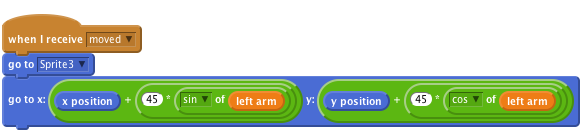
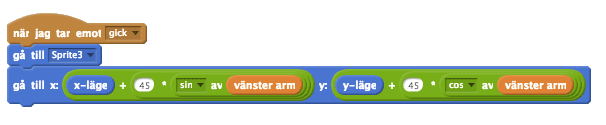
sv-SE_translations: Translated text and imagery for the scratch card 'Jointed arm'.

diff --git a/sv-SE/02_scratch/01/01-02 Make a Monster - Jointed Arm.html b/sv-SE/02_scratch/01/01-02 Make a Monster - Jointed Arm.html
@@ -1,0 +1,64 @@
+<!DOCTYPE html>
+<html class="world" lang="sv-SE">
+<head>
+    <meta charset="utf-8">
+    <meta name="viewport" content="width=device-width, initial-scale=1.0">
+
+    <meta name="google-site-verification" content="LAa8xdL-G6vOe9RSZnECSduS5m1BMiM8U2erQku5yIE" />
+
+    <title>Monsterförjdupningskort - Ledad Arm — Code Club World Projects</title>
+
+    <!--[if lt IE 9]><script src="http://html5shim.googlecode.com/svn/trunk/html5.js"></script><![endif]-->
+
+    <link rel="stylesheet" href="../../../css/master.min.css">
+  </head>
+
+  <body class="index-template world">
+    <header class="header" role="banner">
+      <a class="home-link" href="../../../index.html"><img alt="" class="logo" height="100" src="../../../img/ccw_logo.png"></a>
+      <h1 class="title">Monsterförjdupningskort - Ledad arm</h1>
+      <span class="level-indicator">Nivå 4</span>
+    </header>
+
+    <nav class="breadcrumbs"><ul class="breadcrumbs-list"><li class="breadcrumbs-item"><a class="breadcrumbs-link" href="../../../index.html">Språk</a></li><li class="breadcrumbs-item"><a class="breadcrumbs-link" href="../../index.html">Svenska</a></li><li class="breadcrumbs-item"><a class="breadcrumbs-link" href="../index.html">Advancerad Scratch</a></li><li class="breadcrumbs-item current">Ledad arm</li></ul></nav>
+
+    <main class="main lesson-steps" role="main">
+<section id="activity-checklist" class="level2 check">
+<h2>Checklista</h2>
+<p>
+  En ledad arm är gjord av <strong>två sprites</strong>, de kan vara ganska svåra att bygga eftersom de två delarna av armen måste veta var den andra delen är för att inte delas upp och se konstig ut. Detta görs genom en matematisk beräkning som kallas <strong>trigonometri</strong> detta används ofta i utveckling av tvspel, robotar och annan häftig teknik.</p>
+  <p> <strong>Vår första sprite är överarmen</strong>, detta är inte alltför svårt, eftersom den bara kommer rotera i axeln och flyttas fram och tillbaka tillsammans med kroppen och våra övriga kroppsdelar. En sak vi måste lägga till är dock att sätta vår arms <code class="blockblue">riktning</code> till en variabel (mer om detta senare).</p>
+<p><img src="5c86347fddb919db0af5f853a218178377cd05d1.png" alt="    när [mellanslag] trycks ned
+        vänd medsols (15) grader
+        sätt [vänster arm] till (riktning)
+        sänd [gick]
+        ändra x med (flytthastighet)" /></p>
+<p>Nästa uträkning används för att kontrollera <strong>underarmen</strong>. Det är här vi använder trigonometri för att räkna ut var underarmen ska placeras (du kan behöva be om hjälp när du gör detta).</p>
+<p><img src="aa78eabac8b59270c0fb415fe64754007131b8ce.png" alt="    när jag tar emot [gick]
+        gå till [Sprite3]
+        gå till: ((x-läge) + ((45) * ([sin] av (vänster arm)))) y: ((y-läge) + ((45) * ([cos] av (vänster arm))))" /></p>
+<p>Vår överarm kommer uppdateras först när eventet <code class="blockbrown">gick</code> skickas, men du kan använda vilket event som helst, så länge överarmen lyssnar på samma event som skickas när kroppen rör sig.</p>
+<p>När överarmen rört sig måste också underarmen följa med. Det gör vi genom att underarmen positionerar sig vid överarmens <strong>centrumpunkt</strong>. Detta borde vara där toppen av överarmen möter axeln i kroppen. Vi vill sedan positionera armbågen på underarmen i andra änden av överarmen. Föreställ dig att när överarmen roterar runt axeln ritar vi en cirkel. För det första, vad är radien på den cirkeln? I vårt exempel är överarmen cirka <strong>45 pixlar</strong> lång.</p>
+<p>Vi vill sen hitta på vilken punkt runt den cirkeln som den andra änden av vår arm är och positionera vår underarm där. Vi använder det trigonometriska utrycket ovan för att göra denna förflyttning och ska en armbåge.</p>
+</section>
+    </main>
+
+    <aside class="legal-notice copyright">
+      <p>These projects are for use outside the UK only. More information is available on our website at <a href="http://www.codeclub.org.uk/">http://www.codeclub.org.uk/</a>. This coursework is developed in the open on GitHub (<a href="https://github.com/CodeClub/">https://github.com/CodeClub</a>), come and join us!</p>
+      <p>&copy; 2014 Code Club. This work is licensed under a <a rel="license" href="http://creativecommons.org/licenses/by-nc-sa/4.0/">BY-NC-SA 4.0 International License</a>.</p>
+    </aside>
+
+    <!-- Google Analytics -->
+    <script type="text/javascript">
+      var _gaq = _gaq || [];
+      _gaq.push(['_setAccount', 'UA-30750176-5']);
+      _gaq.push(['_setDomainName', 'projects.codeclubworld.org']);
+      _gaq.push(['_trackPageview']);
+      (function() {
+        var ga = document.createElement('script'); ga.type = 'text/javascript'; ga.async = true;
+        ga.src = ('https:' == document.location.protocol ? 'https://ssl' : 'http://www') + '.google-analytics.com/ga.js';
+        var s = document.getElementsByTagName('script')[0]; s.parentNode.insertBefore(ga, s);
+      })();
+    </script>
+  </body>
+</html>
